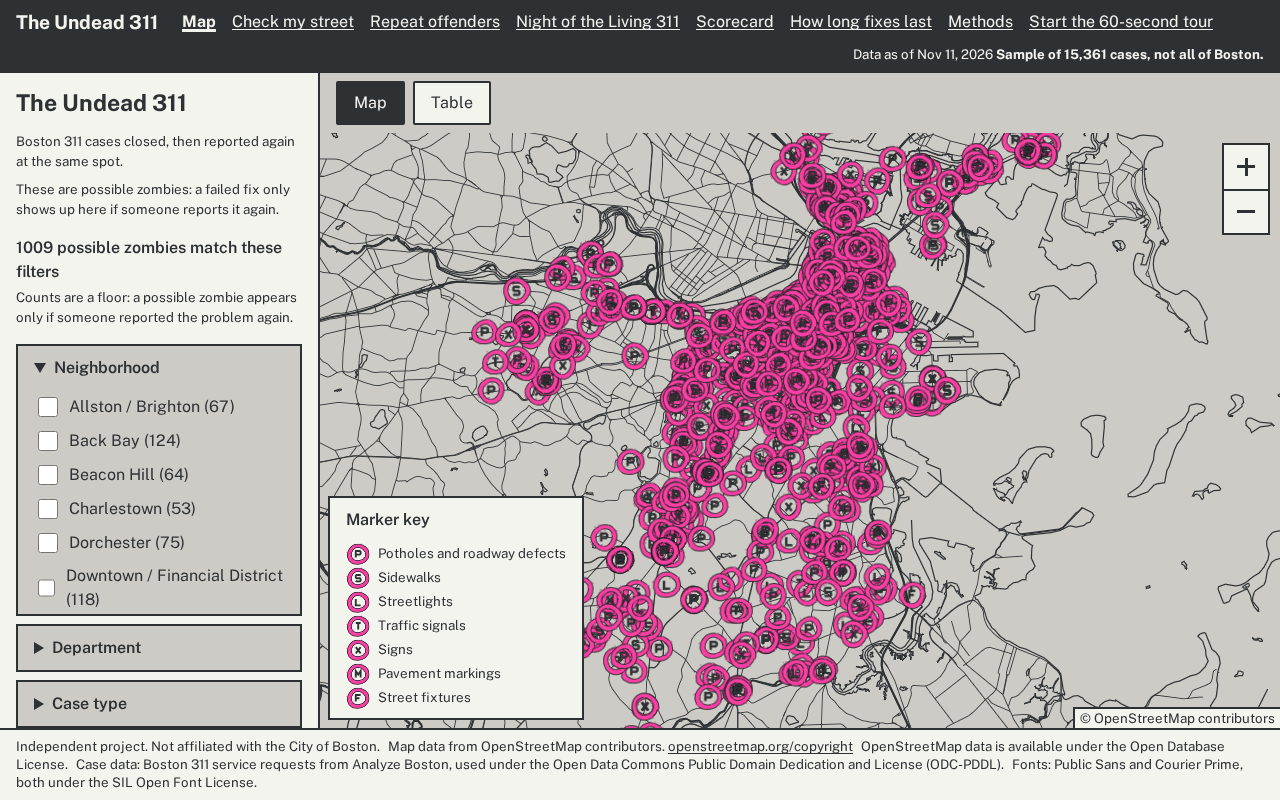
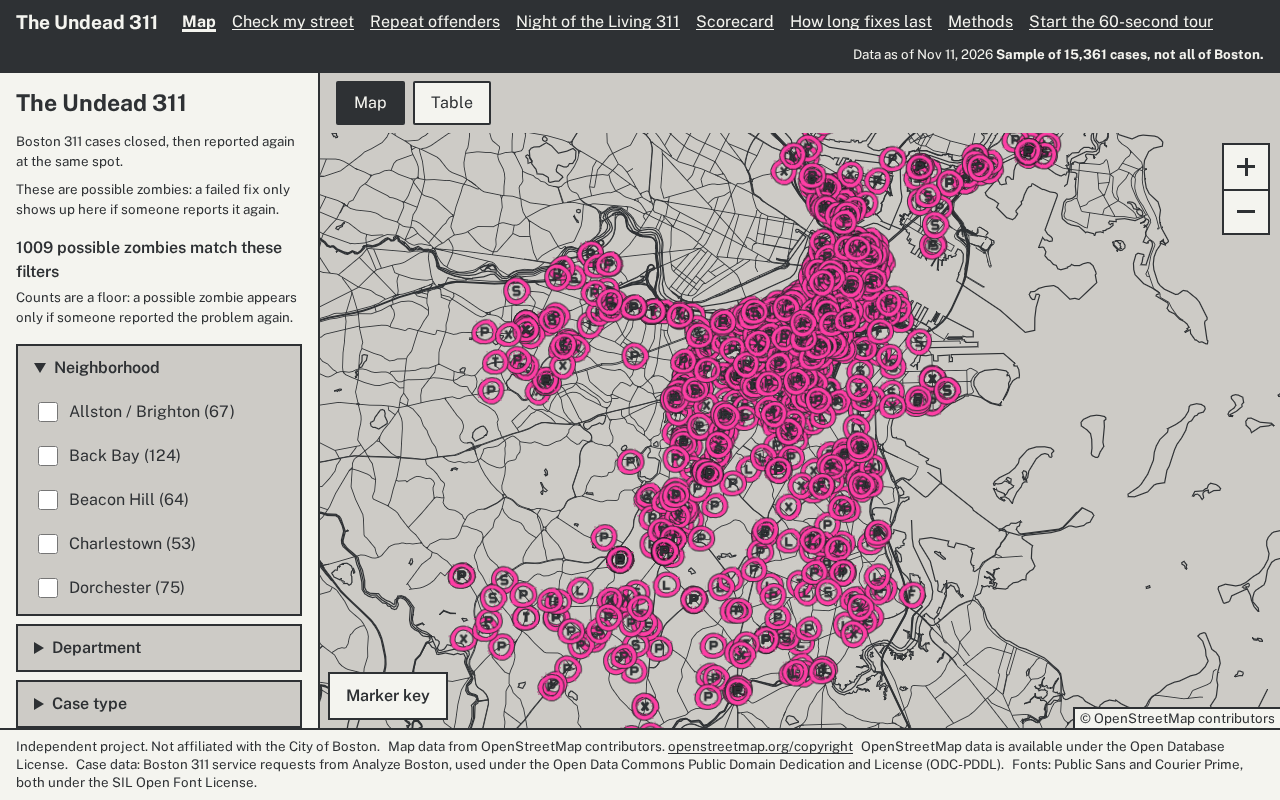
fix(web): address reviewer-ux findings on ui/polish
- /methods no longer scrolls sideways at 320 and 360 px (slider result grid columns can shrink).
- Phone filter sheet hides the Map and Table buttons while open instead of cutting through them.
- Filter option rows are 44 px tall; the time-lapse date slider gets room to grow.
- Marker key starts shut on every screen size so it does not cover the map.
- e2e: no sideways scroll on seven pages at 320, 360 and 390 px.

Kiro-Agent: web
Kiro-Run: manual

Changed region(s): [[0.25, 0.5938, 0.4688, 0.9062], [0.0312, 0.5, 0.1875, 0.6875], [0.0312, 0.7188, 0.2188, 0.75]]

diff --git a/web/src/styles/app.css b/web/src/styles/app.css
@@ -186,7 +186,7 @@ button:disabled { opacity: 1; border-style: dashed; cursor: not-allowed; }
 .filter-group summary { padding: var(--space-2) var(--space-3); cursor: pointer; font-weight: 600; min-height: 2.75rem; display: flex; align-items: center; gap: var(--space-2); }
 .filter-group summary::-webkit-details-marker { display: none; }
 .filter-group ul { list-style: none; margin: 0; padding: 0 var(--space-3) var(--space-2); max-height: 14rem; overflow-y: auto; }
-.filter-group li label { display: flex; gap: var(--space-2); align-items: center; padding: var(--space-1) 0; min-height: 2rem; }
+.filter-group li label { display: flex; gap: var(--space-2); align-items: center; padding: var(--space-1) 0; min-height: 2.75rem; }
 .filter-group input[type="checkbox"] { width: 1.25rem; height: 1.25rem; accent-color: var(--asphalt); }
 .count-line { font-weight: 600; margin: 0; }
 .count-note { font-size: var(--step--1); }
@@ -235,6 +235,8 @@ button:disabled { opacity: 1; border-style: dashed; cursor: not-allowed; }
   }
   .filters-body.filters-open { display: flex; }
   .stage { border-top: 0; }
+  /* The sheet would cut through the Map and Table buttons, so they step out of the way while it is open. */
+  .home:has(.filters-open) .view-switch { visibility: hidden; }
 }
 /* On the map page the footer keeps every line but runs them together, so the map keeps the room. */
 .shell[data-fit] .site-footer { display: block; padding-block: var(--space-2) max(var(--space-2), env(safe-area-inset-bottom)); line-height: 1.35; }
@@ -343,7 +345,8 @@ button:disabled { opacity: 1; border-style: dashed; cursor: not-allowed; }
 .slider-stops { margin: 0; }
 .slider-group input[type="range"] { width: min(24rem, 100%); min-height: 2.75rem; accent-color: var(--asphalt); }
 .slider-radio { display: flex; align-items: center; gap: var(--space-2); min-height: 2.75rem; }
-.slider-result { display: grid; grid-template-columns: max-content 1fr; gap: var(--space-1) var(--space-3); }
+.slider-result { display: grid; grid-template-columns: minmax(0, max-content) minmax(0, 1fr); gap: var(--space-1) var(--space-3); }
+.slider-result dt, .slider-result dd { overflow-wrap: anywhere; }
 .slider-result dd { margin: 0; font-weight: 600; }
 .street-search { display: grid; gap: var(--space-2); max-width: 32rem; }
 .street-search input { min-height: 2.75rem; padding: 0 var(--space-2); border: 2px solid var(--asphalt); border-radius: 2px; font: inherit; }
@@ -537,7 +540,7 @@ select {
 .timelapse-bar { display: grid; gap: var(--space-3); margin: var(--space-3) 0; }
 .timelapse-bar .timelapse-controls { margin: 0; }
 .timelapse-bar p { margin: 0; }
-.timelapse-scrub { display: grid; gap: var(--space-1); font-weight: 600; }
+.timelapse-scrub { display: grid; gap: var(--space-1); font-weight: 600; flex: 1 1 16rem; min-width: 0; }
 .timelapse-focus {
   display: grid;
   grid-template-columns: repeat(auto-fill, minmax(11rem, 1fr));

diff --git a/web/src/components/MapLegend.tsx b/web/src/components/MapLegend.tsx
@@ -1,7 +1,6 @@
 import { useState } from "react";
 import { familyLabel } from "../lib/labels";
 import { t } from "../lib/t";
-import { useNarrow } from "../lib/useNarrow";
 import { PALETTE } from "../map/palette";
 import { FAMILY_ORDER, spraySvg } from "../map/sprites";
 
@@ -14,12 +13,11 @@ const DASHED = {
 
 /**
  * Key to the map markers (REQ-WEB-MAP.1): the stencil letter for each case type, and the dashed ring for cases outside the
- * headline. It sits over the map's lower left corner, open on wide screens and shut on phones so the map keeps the room.
+ * headline. It sits over the map's lower left corner, shut until asked, so the map keeps the room (reviewer-ux finding 6).
  */
 export function MapLegend({ showOutline }: { showOutline: boolean }) {
-  const narrow = useNarrow();
-  const [openChoice, setOpenChoice] = useState<boolean | null>(null);
-  const open = openChoice ?? !narrow;
+    const [openChoice, setOpenChoice] = useState<boolean | null>(null);
+  const open = openChoice ?? false;
   return (
     <details className="map-legend" open={open} onToggle={(e) => setOpenChoice((e.currentTarget as HTMLDetailsElement).open)} data-testid="map-legend">
       <summary>{t("map.legend_title")}</summary>

diff --git a/web/e2e/ui-polish.spec.ts b/web/e2e/ui-polish.spec.ts
@@ -184,3 +184,24 @@ test("on a phone a tap just outside the painted circle still hits, because the t
   await expect(page.getByTestId("autopsy-card")).toBeVisible();
   expect(idFromUrl(page)).toBe(target.id);
 });
+
+for (const width of [320, 360, 390]) {
+  test(`no page scrolls sideways at ${width} px wide`, async ({ page }) => {
+    await page.setViewportSize({ width, height: 740 });
+    for (const path of ["/", "/methods", "/timelapse", "/scorecard", "/durability", "/street", "/repeat"]) {
+      await page.goto(path);
+      await page.waitForTimeout(600);
+      const over = await page.evaluate(() => document.documentElement.scrollWidth - innerWidth);
+      expect(over, `${path} at ${width}px`).toBeLessThanOrEqual(0);
+    }
+  });
+}
+
+test("the phone filter sheet leaves no half-cut Map and Table buttons showing", async ({ page }, info) => {
+  test.skip(info.project.name !== "phone", "the sheet exists under 640 px only");
+  await page.goto("/");
+  await openFilters(page);
+  await expect(page.locator(".view-switch")).toHaveCSS("visibility", "hidden");
+  await page.keyboard.press("Escape");
+  await expect(page.locator(".view-switch")).toHaveCSS("visibility", "visible");
+});

diff --git a/docs/KIRO_LOG.md b/docs/KIRO_LOG.md
@@ -88,3 +88,4 @@ Format: `YYYY-MM-DD | surface | feature | what was built/fixed | issue + fix`
 2026-11-18 | Web | PBT + unit tests (mock GitHub server), fix/snapshot-ready, no workflow | Release publish over the REST uploads endpoint with an authenticated download hash check; run_full exits at once on `done: true` and reuses a finished run after a killed leg (rehearsal-1's second pass); the fulldata download step keeps the updated SNAPSHOT.md table; `make snapshot RUN_ID` reads the run's exports and commits `data/judging/` (plus the table as manifest), `make snapshot-verify` re-checks a tag from a plain checkout; `make judging-final` regenerates only validation and judge-mode files; placeholder candidates reported | The ask said the stop-condition path or the done-file check caused the second pass; the run log (ops#224) showed a different cause (a killed leg left markers but no partial database, so the next leg started fresh), so both the guard and the recovery were added. First draft of the run report write moved before the rename broke the rename-rollback test; staged it with the processed files instead.
 2026-11-18 | Web | unit tests (nightly template), fix/nightly-uv-run, no workflow | Nightly template runs every repo script as `uv run --locked python` from the judged checkout (the bare `python3 snapshot.py --freeze-judge` failed with ModuleNotFoundError: duckdb), installs with `uv sync --locked` and `npm ci`, moves checkout, setup-node and setup-uv to Node 24 majors (v7); snapshot.py imports duckdb only inside table_row_counts; tests for no bare python3, scripts exist, setup order and Node 24 | Reproduced the failure on a clone of rehearsal-freeze-2 first; the tag has no fix, so the template alone had to work with its old code (checked with uv run --locked on that clone).
 2026-11-18 | Web | unit + e2e tests (axe), branch ui/polish, no workflow | Drew the zombie markers in code (uneven spray ring, 4 variants, stencil letter per type family, legend); home page fills the screen with filters as a fixed-height panel or phone sheet; time-lapse focus, trail and speed controls; methods page 70-character column with sticky contents list; invisible hit circles so a marker's center and a 44 px phone target pick it | Kiro first wrote the center-click e2e on a family whose stencil letter covers the center, so it passed against the old sprite-only picking; it now uses streetlights (the L leaves the middle empty) and was checked to fail without the fix. The e2e shot() helper overwrote 31 committed screenshots in docs/screenshots; restored them with git checkout.
+2026-11-18 | Web | reviewer-ux agent review of ui/polish, no workflow | Fixed its blocking finding (methods page scrolled sideways at 360 and 320 px: the slider result list had a max-content column), the phone sheet cutting through the Map and Table buttons, 32 px filter rows, the short time-lapse slider and the marker key covering the desktop map; added an overflow test for seven pages at three widths | reviewer-ux said the committed after-layout.json showed the old failures; the committed file was already correct (800 of 800), so no change was made there. Marker density at default zoom, load-time layout shift on scorecard and methods, and header and footer link heights are not fixed in this PR.
